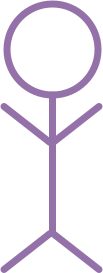
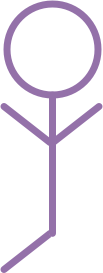
hang man styling complete, had to cheat on the letters

Changed region(s): [[0.4951, 0.8498, 1.0, 1.0]]

diff --git a/hangman.html b/hangman.html
@@ -10,35 +10,58 @@
 </head>
 <body>
     <div id="hang-board">
-        <div class="letter-box" data-letter="a">a</div>
-        <div class="letter-box" data-letter="b">b</div>
-        <div class="letter-box" data-letter="c">c</div>
-        <div class="letter-box" data-letter="d">d</div>
-        <div class="letter-box" data-letter="e">e</div>
-        <div class="letter-box" data-letter="f">f</div>
-        <div class="letter-box" data-letter="g">g</div>
-        <div class="letter-box" data-letter="h">h</div>
-        <div class="letter-box" data-letter="i">i</div>
-        <div class="letter-box" data-letter="j">j</div>
-        <div class="letter-box" data-letter="k">k</div>
-        <div class="letter-box" data-letter="l">l</div>
-        <div class="letter-box" data-letter="m">m</div>
-        <div class="letter-box" data-letter="n">n</div>
-        <div class="letter-box" data-letter="o">o</div>
-        <div class="letter-box" data-letter="p">p</div>
-        <div class="letter-box" data-letter="q">q</div>
-        <div class="letter-box" data-letter="r">r</div>
-        <div class="letter-box" data-letter="s">s</div>
-        <div class="letter-box" data-letter="t">t</div>
-        <div class="letter-box" data-letter="u">u</div>
-        <div class="letter-box" data-letter="v">v</div>
-        <div class="letter-box" data-letter="w">w</div>
-        <div class="letter-box" data-letter="x">x</div>
-        <div class="letter-box" data-letter="y">y</div>
-        <div class="letter-box" data-letter="z">z</div>
+        <center><div id="hangman-title">Hangman</div></center>
+        <img id="gallows" src="./assets/hangman stand.png">
+        <img id="man" src="./assets/hangman 5.png">
+       <a href="index.html"> <img id="home" src="./assets/home icon.png"></a>
+        <a href="hangman.html"> <img id="hangman-restart" src="./assets/hangman restart button.png"> </a>
+        <div id="guess-board"></div>
+        <div id="win-status"></div>
+        <div id="letter-board">
+            <div>
+                <center>
+                    <div class="letter-box" data-letter="a">a</div>
+                    <div class="letter-box" data-letter="b">b</div>
+                    <div class="letter-box" data-letter="c">c</div>
+                    <div class="letter-box" data-letter="d">d</div>
+                    <div class="letter-box" data-letter="e">e</div>
+                    <div class="letter-box" data-letter="f">f</div>
+                </center>
+            </div>
+            <div>
+                <center>
+                    <div class="letter-box" data-letter="g">g</div>
+                    <div class="letter-box" data-letter="h">h</div>
+                    <div class="letter-box" data-letter="i">i</div>
+                    <div class="letter-box" data-letter="j">j</div>
+                    <div class="letter-box" data-letter="k">k</div>
+                    <div class="letter-box" data-letter="l">l</div>
+                    <div class="letter-box" data-letter="m">m</div>
+                </center>
+            </div>
+            <div>
+                <center>
+                    <div class="letter-box" data-letter="n">n</div>
+                    <div class="letter-box" data-letter="o">o</div>
+                    <div class="letter-box" data-letter="p">p</div>
+                    <div class="letter-box" data-letter="q">q</div>
+                    <div class="letter-box" data-letter="r">r</div>
+                    <div class="letter-box" data-letter="s">s</div>
+                    <div class="letter-box" data-letter="t">t</div>
+                </center>
+            </div>
+            <div>
+                <center>
+                    <div class="letter-box" data-letter="u">u</div>
+                    <div class="letter-box" data-letter="v">v</div>
+                    <div class="letter-box" data-letter="w">w</div>
+                    <div class="letter-box" data-letter="x">x</div>
+                    <div class="letter-box" data-letter="y">y</div>
+                    <div class="letter-box" data-letter="z">z</div>
+                </center>
+            </div>
+        </div>
     </div>   
-    <div id="guess-board"></div>
-    <div>Lives:<span id="life-counter"></span></div>
     <script src="./javascript/hang.js" type="text/javascript"></script>
 </body>
 </html>

diff --git a/css/main.css b/css/main.css
@@ -27,24 +27,84 @@ body {
  }
  .letter-box {
      display: inline-block;
-     color: blue;
-     background-color: black;
-     border: solid 1px black;
-     height: 30px;
-     width: 20px;
+     color: white;
+     background-color: #9471A9;
+     height: 75px;
+     width: 60px;
+     border-radius: 10px 10px 10px 10px;
+     margin-left: 3px;
+     margin-right:3px;
+     margin-top: 3px;
+     margin-bottom: 3px;
+     font-family: "font";
+     font-size: 42pt;
+     padding-top: 10px;
+ }
+ #letter-board {
+     position: absolute;
+     top: 300px;
+     left:650px;
  }
  #hang-board {
-     width: 800px;
-     height: 40px;
+     background: url("../assets/hangman bg.png") 100%;
+     width: 100%;
+     height: 100%;
  }
+ #gallows {
+     position: absolute;
+     top: 225px;
+     left: 275px;
+ }
+ #man {
+    position: absolute;
+    top: 315px;
+    left:480px;
+}
+#guess-board {
+    position: absolute;
+    top: 150px;
+    left: 600px;
+}
+#hangman-restart {
+        display: none;
+        position: absolute;
+        bottom: 60px;
+        right: 60px;
+}
+#hangman-title{
+    font-family: "font";
+    font-size: 56pt;
+    padding-top: 50px;
+    color: #9471A9;
+}
+#win-status {
+    position: absolute;
+    font-family: "font";
+    right: 35px;
+    bottom: 200px;
+    font-size: 42pt;
+    color: white;
+}
  .boardTile {
     display: inline-block;
-    color: blue;
-    background-color: black;
-    border: solid 1px black;
-    height: 30px;
-    width: 20px;
+    color: white;
+    border-bottom: solid #9471A9 3px; 
+    height: 75px;
+    width: 60px;
+    margin-left: 6px;
+    margin-right:6px;
+    margin-top: 3px;
+    margin-bottom: 3px;
+    font-family: "font";
+    font-size: 42pt;
+    padding-top: 10px;
  }
+ #memory-restart {
+    position: absolute;
+    bottom: 60px;
+    right: 60px;
+}
+ /* matching game */
  .match-card {
     display: inline-block;
     background-color: white;
@@ -82,14 +142,15 @@ body {
     position: absolute;
     bottom: 60px;
     right: 60px;
+    display: none;
 }
 #win-announce {
     position: absolute;
-    top: 50px;
+    bottom: 200px;
     right: 70px;
     font-family: "font";
-    font-size: 66pt;
-    color: #489CCA;
+    font-size: 42pt;
+    color: white;
 }
 /* landing page */
 

diff --git a/javascript/hang.js b/javascript/hang.js
@@ -1,14 +1,17 @@
 const board = document.getElementById('hang-board');
 const guessBoard = document.getElementById('guess-board');
-let word = 'word';
-let mysteryWord = word.split('');
-let lives = 5;
+const letterBoard = document.getElementById('letter-board');
+
+let lives = 6;
 let elements;
 let winCount=0;
+let wordBank = ['telephone', 'elevator', 'printer', 'library', 'dictator', 'elephant', 'machismo'];
+let mysteryWord = wordBank[Math.floor(Math.random()*6)].split('');
 
 function createBoard(wordArray){
     for(let x = 0; x< wordArray.length; x++) {
         let newTile = document.createElement('div');
+        newTile.innerHTML = `<center>${wordArray[x]}</center>`;
         newTile.classList.add(`boardTile`);
         newTile.classList.add(`tile${wordArray[x]}`);
         newTile.dataset.letter = `${wordArray[x]}`;
@@ -17,27 +20,27 @@ function createBoard(wordArray){
 }
 createBoard(mysteryWord);
 
-board.addEventListener('click',(event)=> {
+letterBoard.addEventListener('click',(event)=> {
     let tempArray = document.getElementsByClassName(`tile${event.target.dataset.letter}`);
-    console.log(tempArray,'temp');
     if (tempArray.length > 0) {
         for(let x = 0;x < tempArray.length; x++) {
-            tempArray[x].innerHTML=`${event.target.dataset.letter}`;
+            tempArray[x].style.color='#9471A9';
             winCount++;
-            console.log(lives);
         }
-    } else {
+    } else if (event.target.dataset.letter) {
         lives-= 1;
-        console.log(lives);
+        document.getElementById('man').src = `./assets/hangman ${lives}.png`;
     }
-    event.target.innerHTML= '';
+    event.target.style.color= '#9471A9';
     event.target.dataset.letter= '';
     checkWin();
 })
 function checkWin() {
     if (lives<= 0){
-        alert('you lose');
+        document.getElementById('win-status').innerHTML = 'You Lose!';
+        document.getElementById('hangman-restart').style.display = 'block';
     } else if(winCount === mysteryWord.length) {
-        alert('you win')
+        document.getElementById('win-status').innerHTML = 'You Win!';
+        document.getElementById('hangman-restart').style.display = 'block';
     }
 }

diff --git a/javascript/match.js b/javascript/match.js
@@ -58,5 +58,6 @@ function clearPicks() {
 function checkWin() {
     if(winCount=== 4) {
         document.getElementById('win-announce').innerHTML = 'You Win!';
+        document.getElementById('memory-restart').style.display = 'block';
     }
 }
